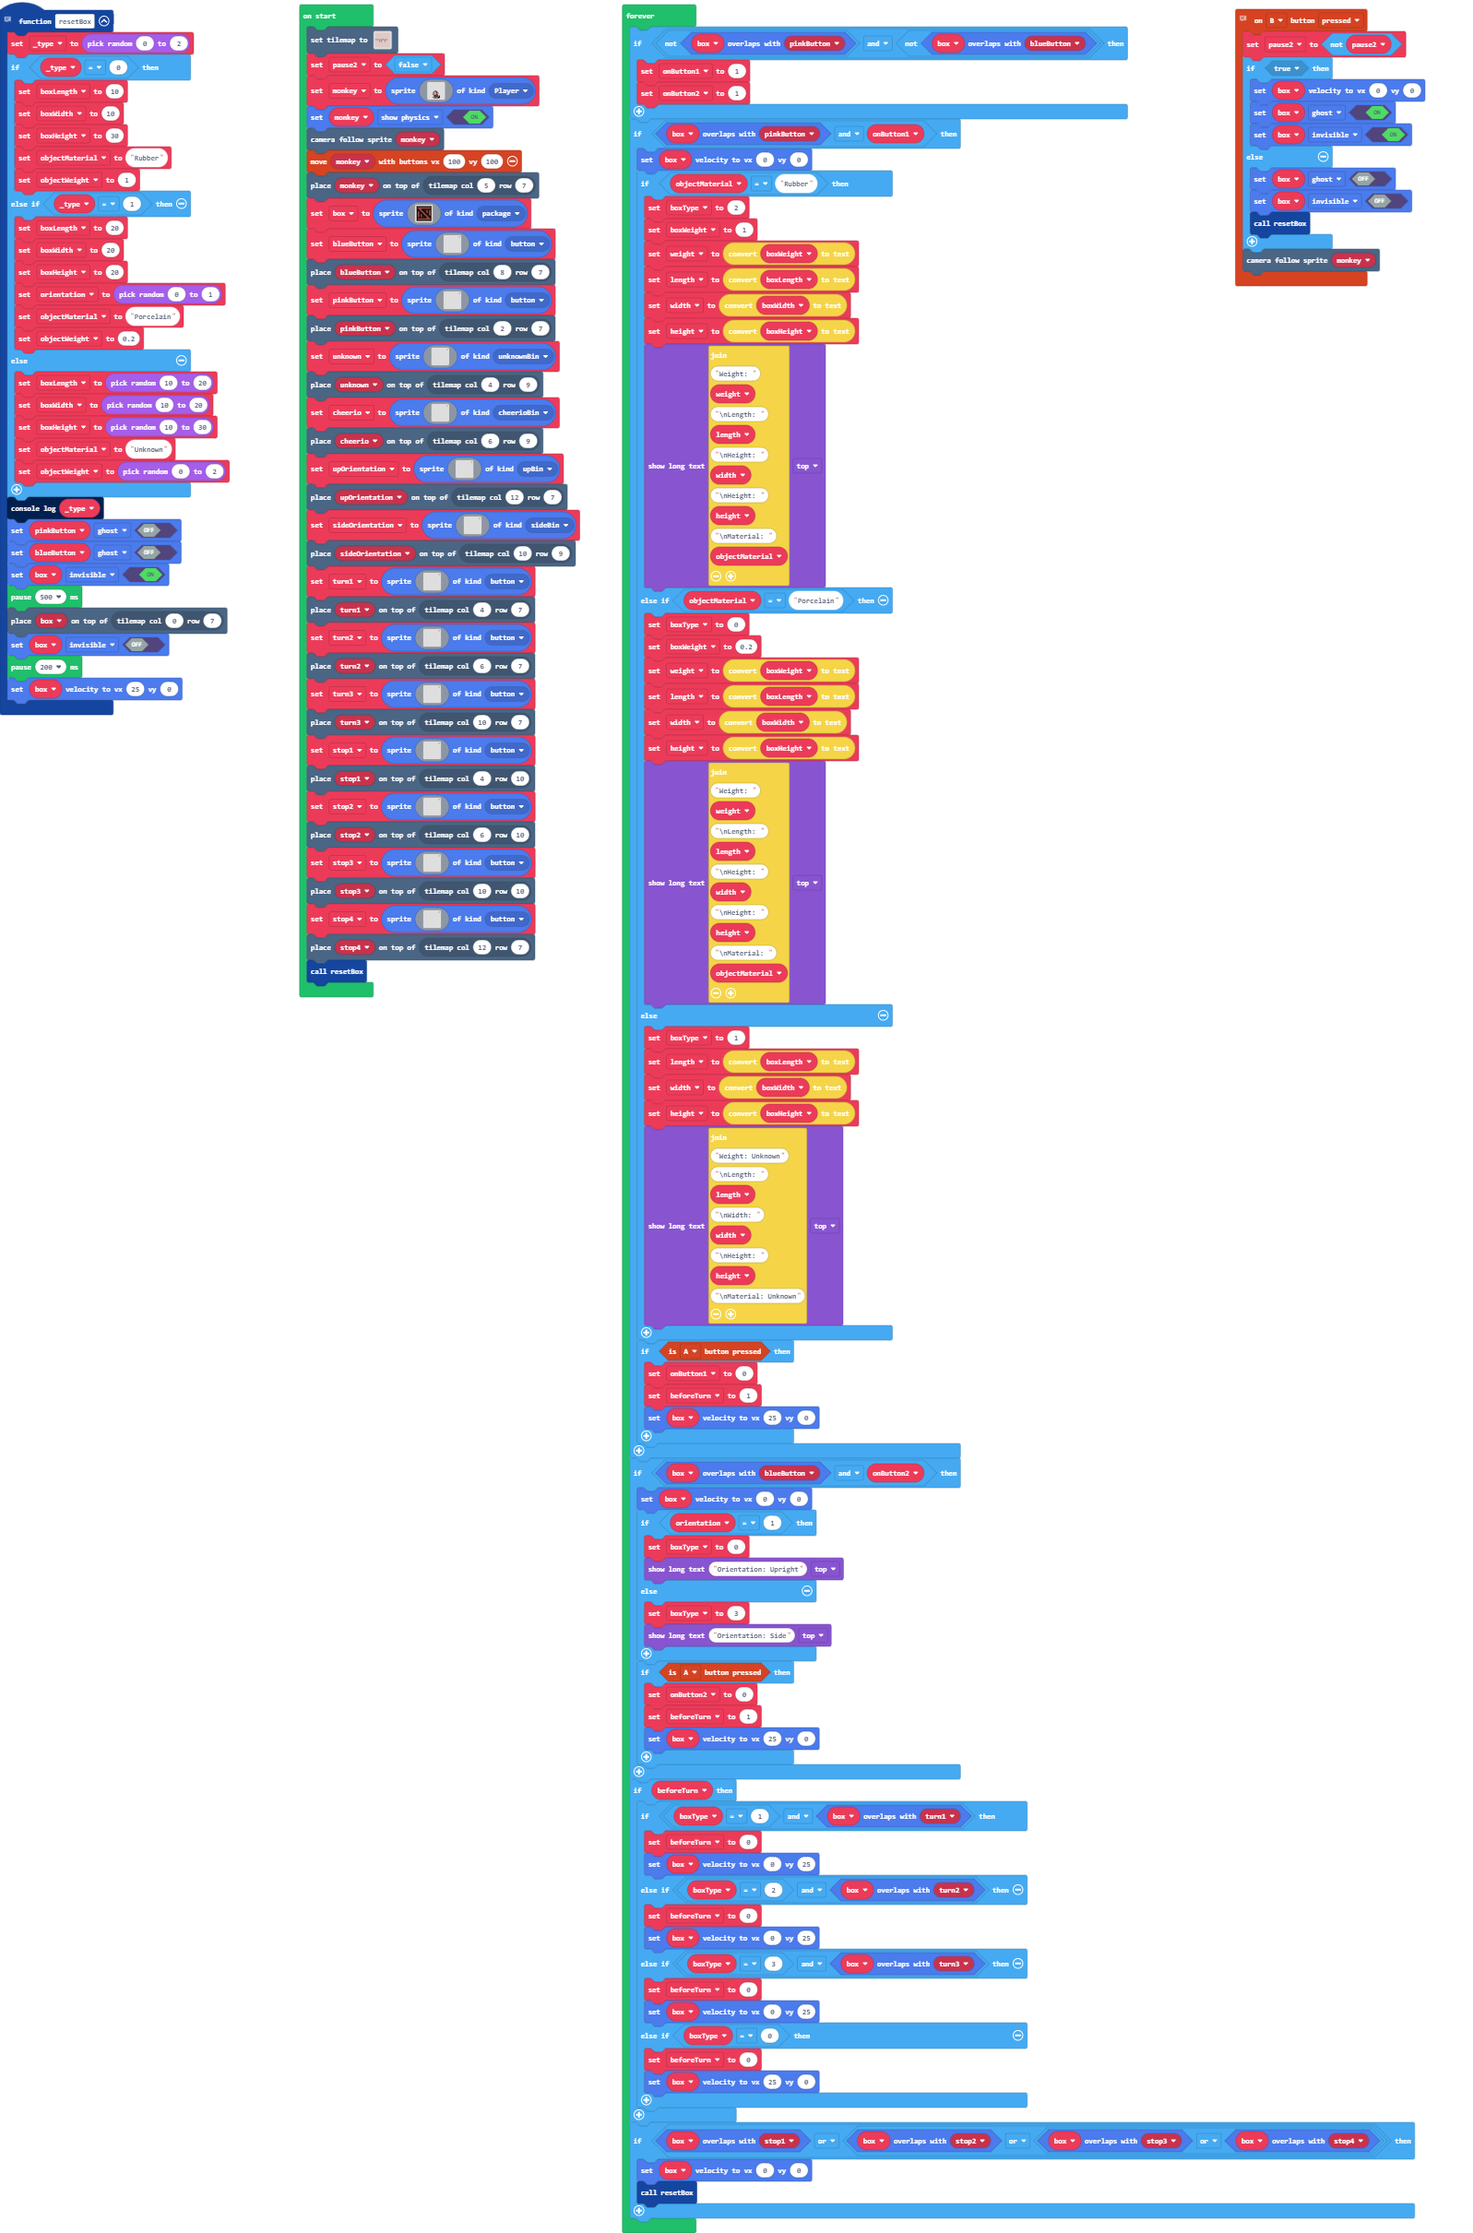
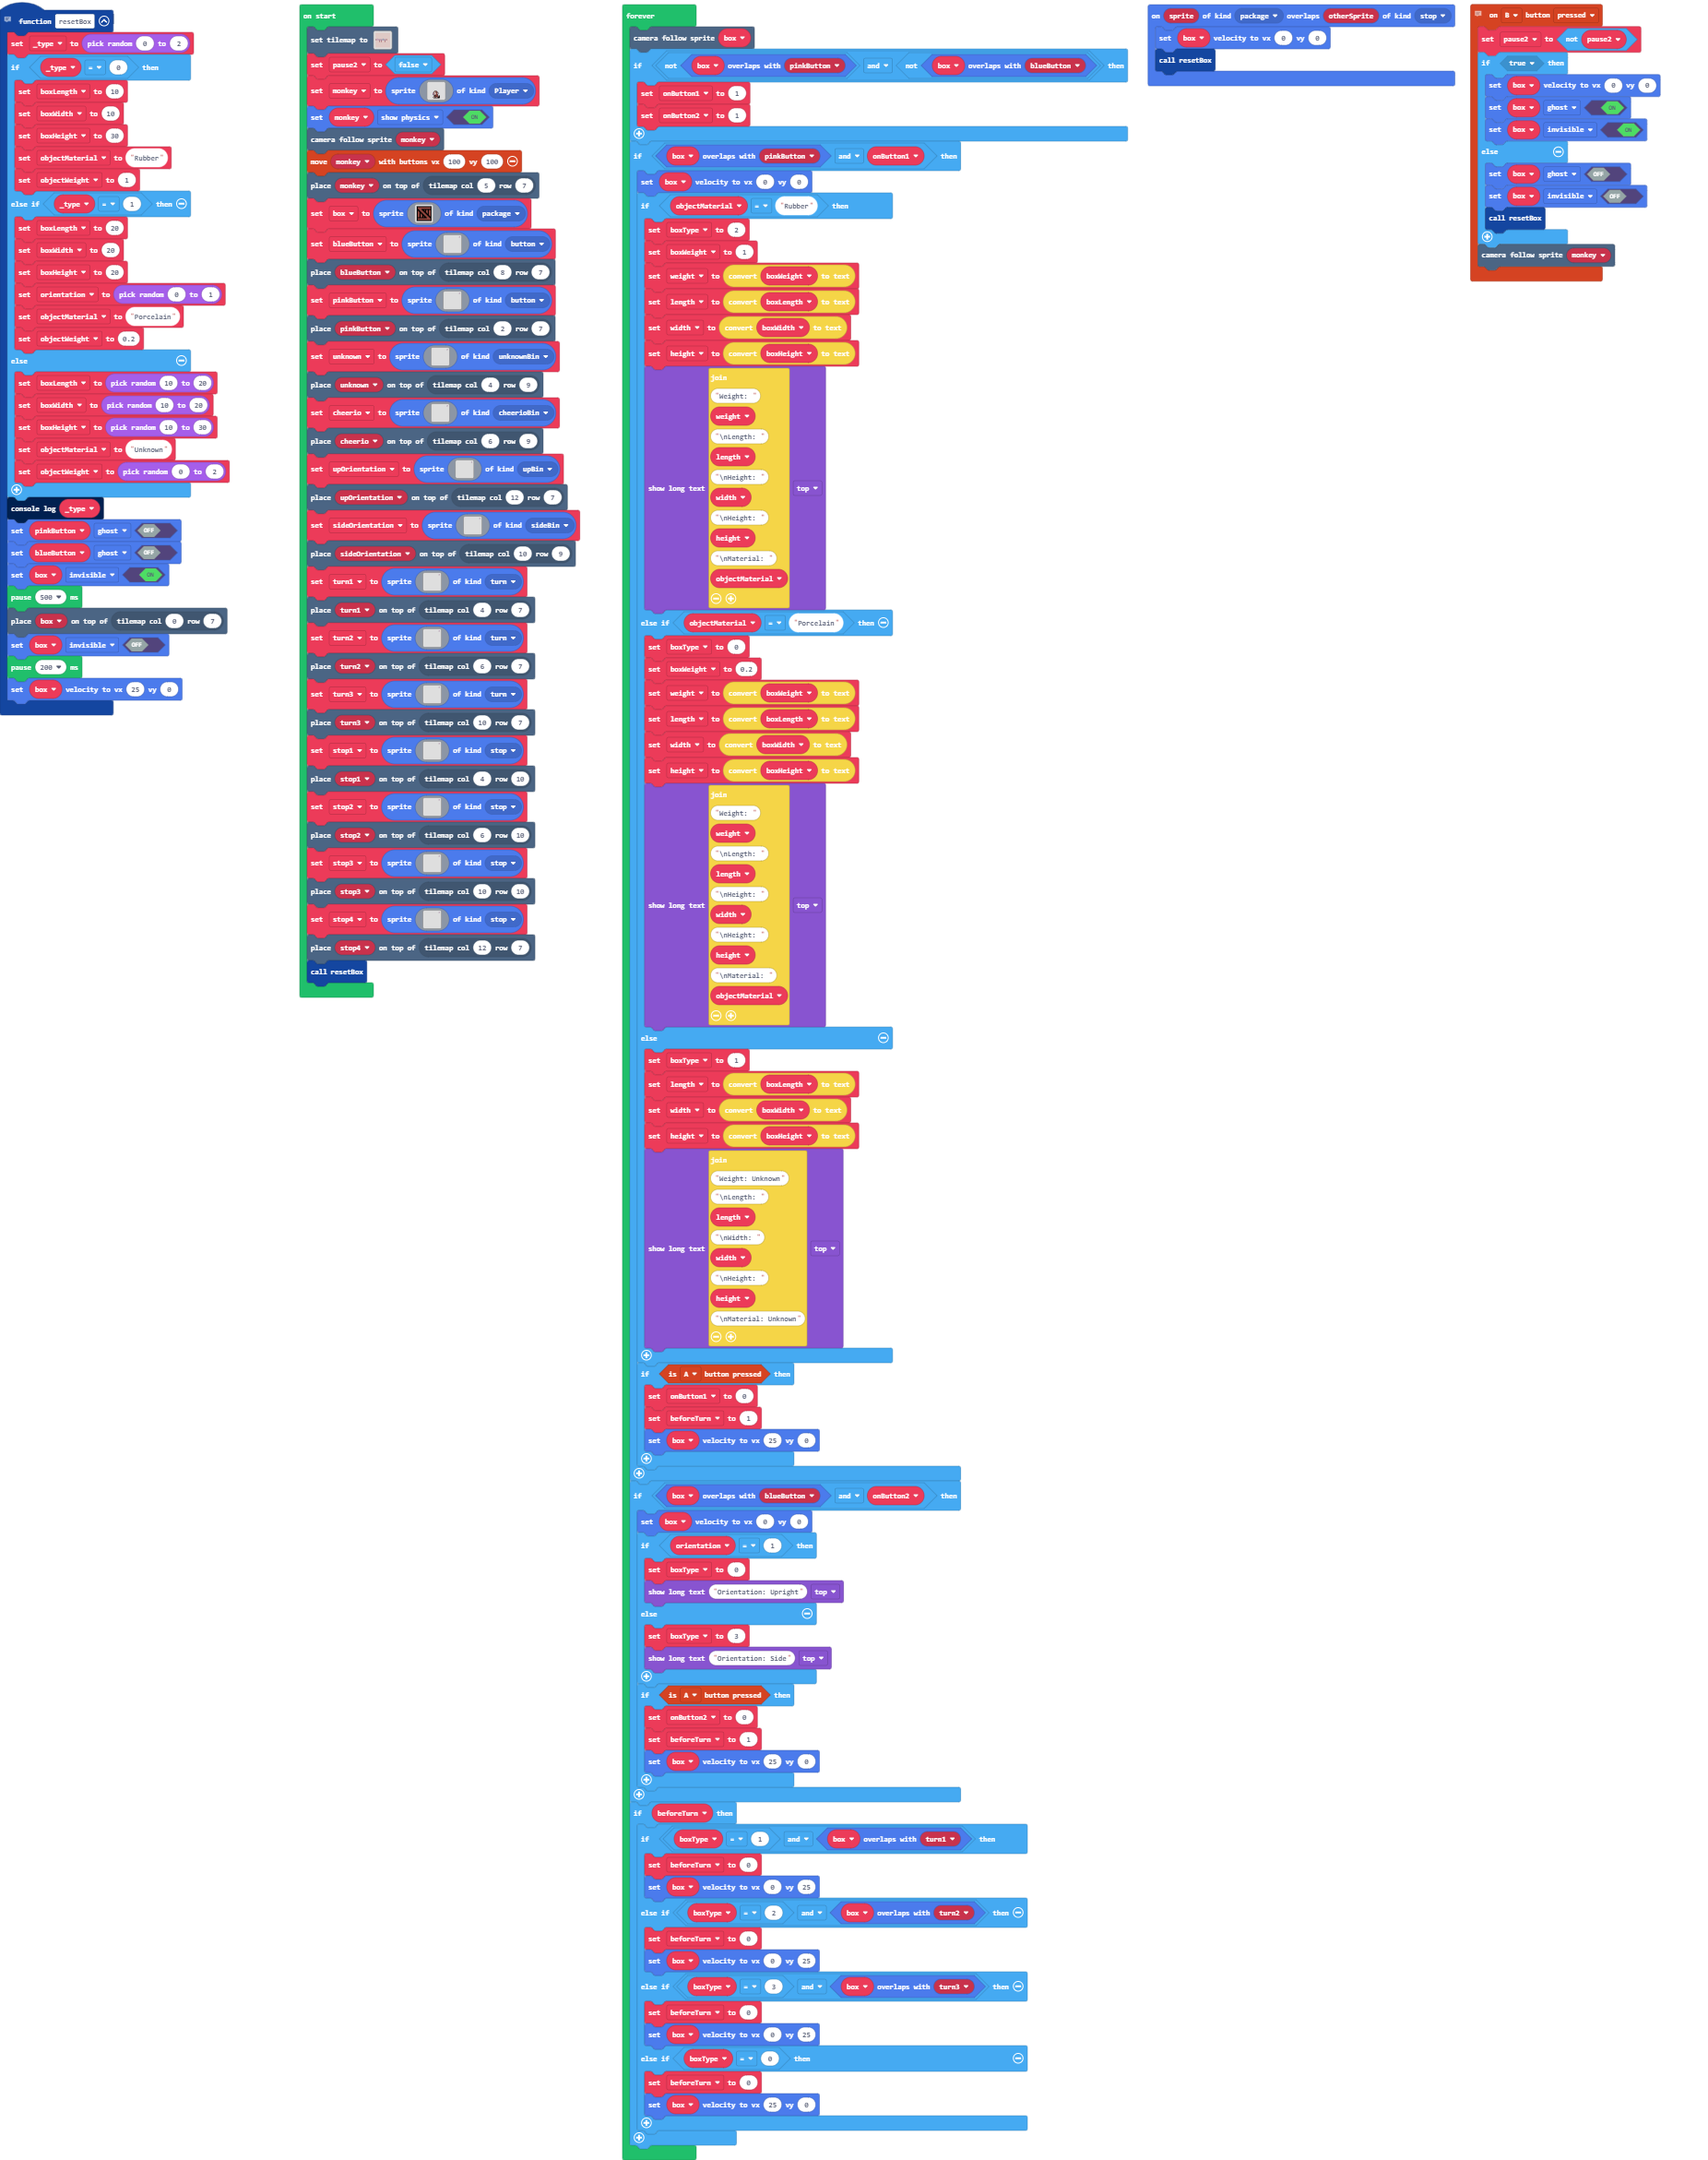
Made display follow box & reorganized code

diff --git a/main.ts b/main.ts
@@ -7,6 +7,8 @@ namespace SpriteKind {
     export const downBin = SpriteKind.create()
     export const sideBin = SpriteKind.create()
     export const unknownBin = SpriteKind.create()
+    export const turn = SpriteKind.create()
+    export const stop = SpriteKind.create()
 }
 // Pause the game, click reset to restart the game and bring back the box
 controller.B.onEvent(ControllerButtonEvent.Pressed, function () {
@@ -55,6 +57,10 @@ function resetBox () {
     pause(200)
     box.setVelocity(25, 0)
 }
+sprites.onOverlap(SpriteKind.package, SpriteKind.stop, function (sprite, otherSprite) {
+    box.setVelocity(0, 0)
+    resetBox()
+})
 let beforeTurn = 0
 let height = ""
 let width = ""
@@ -282,7 +288,7 @@ let turn1 = sprites.create(img`
     . . . . . . . . . . . . . . . . 
     . . . . . . . . . . . . . . . . 
     . . . . . . . . . . . . . . . . 
-    `, SpriteKind.button)
+    `, SpriteKind.turn)
 tiles.placeOnTile(turn1, tiles.getTileLocation(4, 7))
 let turn2 = sprites.create(img`
     . . . . . . . . . . . . . . . b 
@@ -301,7 +307,7 @@ let turn2 = sprites.create(img`
     . . . . . . . . . . . . . . . . 
     . . . . . . . . . . . . . . . . 
     . . . . . . . . . . . . . . . . 
-    `, SpriteKind.button)
+    `, SpriteKind.turn)
 tiles.placeOnTile(turn2, tiles.getTileLocation(6, 7))
 let turn3 = sprites.create(img`
     . . . . . . . . . . . . . . . b 
@@ -320,7 +326,7 @@ let turn3 = sprites.create(img`
     . . . . . . . . . . . . . . . . 
     . . . . . . . . . . . . . . . . 
     . . . . . . . . . . . . . . . . 
-    `, SpriteKind.button)
+    `, SpriteKind.turn)
 tiles.placeOnTile(turn3, tiles.getTileLocation(10, 7))
 let stop1 = sprites.create(img`
     . . . . . . . . . . . . . . . b 
@@ -339,7 +345,7 @@ let stop1 = sprites.create(img`
     . . . . . . . . . . . . . . . . 
     . . . . . . . . . . . . . . . . 
     . . . . . . . . . . . . . . . . 
-    `, SpriteKind.button)
+    `, SpriteKind.stop)
 tiles.placeOnTile(stop1, tiles.getTileLocation(4, 10))
 let stop2 = sprites.create(img`
     . . . . . . . . . . . . . . . b 
@@ -358,7 +364,7 @@ let stop2 = sprites.create(img`
     . . . . . . . . . . . . . . . . 
     . . . . . . . . . . . . . . . . 
     . . . . . . . . . . . . . . . . 
-    `, SpriteKind.button)
+    `, SpriteKind.stop)
 tiles.placeOnTile(stop2, tiles.getTileLocation(6, 10))
 let stop3 = sprites.create(img`
     . . . . . . . . . . . . . . . b 
@@ -377,7 +383,7 @@ let stop3 = sprites.create(img`
     . . . . . . . . . . . . . . . . 
     . . . . . . . . . . . . . . . . 
     . . . . . . . . . . . . . . . . 
-    `, SpriteKind.button)
+    `, SpriteKind.stop)
 tiles.placeOnTile(stop3, tiles.getTileLocation(10, 10))
 let stop4 = sprites.create(img`
     . . . . . . . . . . . . . . . b 
@@ -396,10 +402,11 @@ let stop4 = sprites.create(img`
     . . . . . . . . . . . . . . . . 
     . . . . . . . . . . . . . . . . 
     . . . . . . . . . . . . . . . . 
-    `, SpriteKind.button)
+    `, SpriteKind.stop)
 tiles.placeOnTile(stop4, tiles.getTileLocation(12, 7))
 resetBox()
 forever(function () {
+    scene.cameraFollowSprite(box)
     if (!(box.overlapsWith(pinkButton)) && !(box.overlapsWith(blueButton))) {
         onButton1 = 1
         onButton2 = 1
@@ -464,9 +471,5 @@ forever(function () {
             beforeTurn = 0
             box.setVelocity(25, 0)
         }
-    }
-    if (box.overlapsWith(stop1) || (box.overlapsWith(stop2) || (box.overlapsWith(stop3) || box.overlapsWith(stop4)))) {
-        box.setVelocity(0, 0)
-        resetBox()
     }
 })
